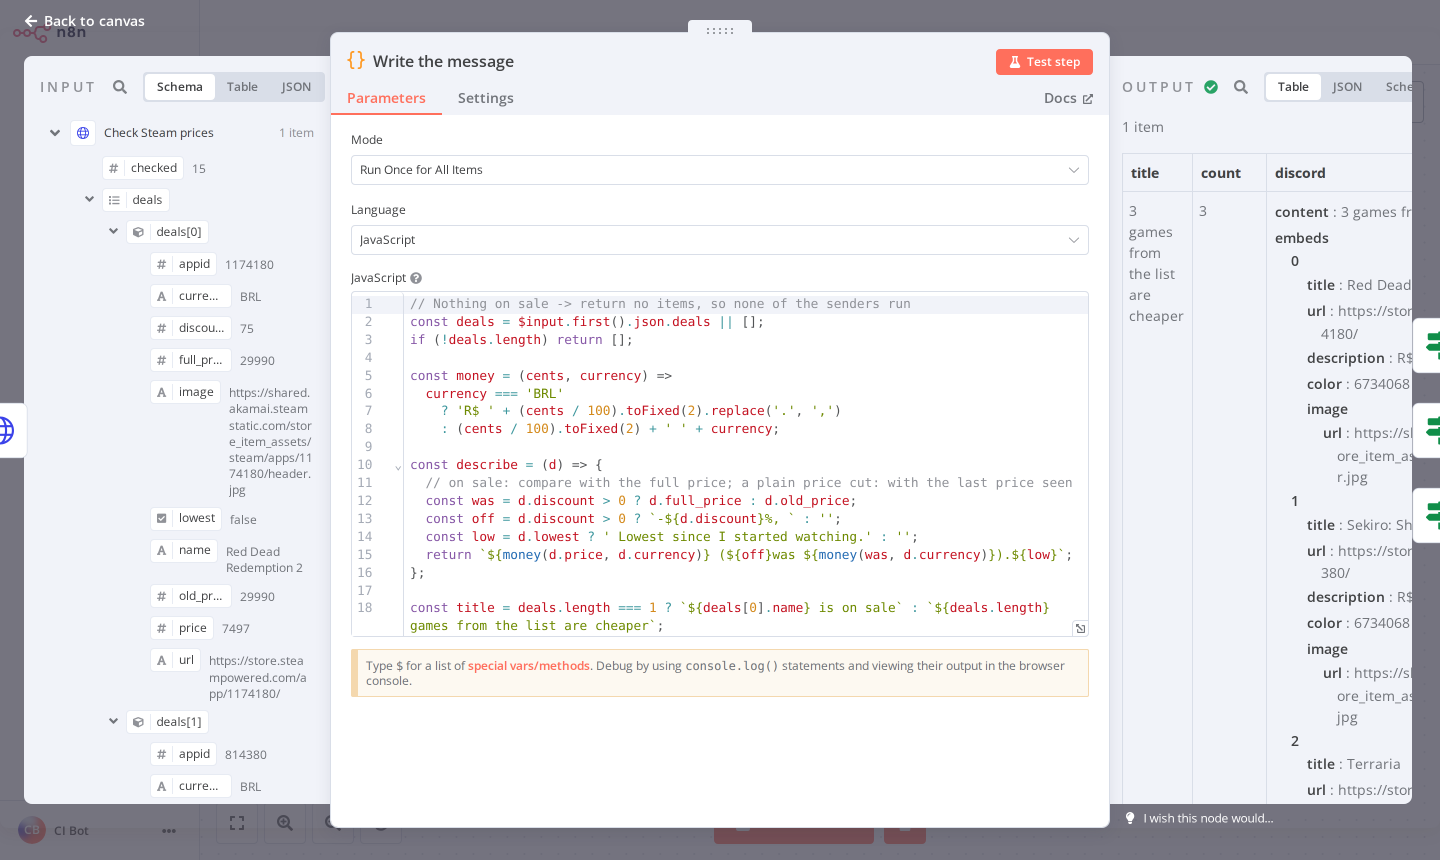
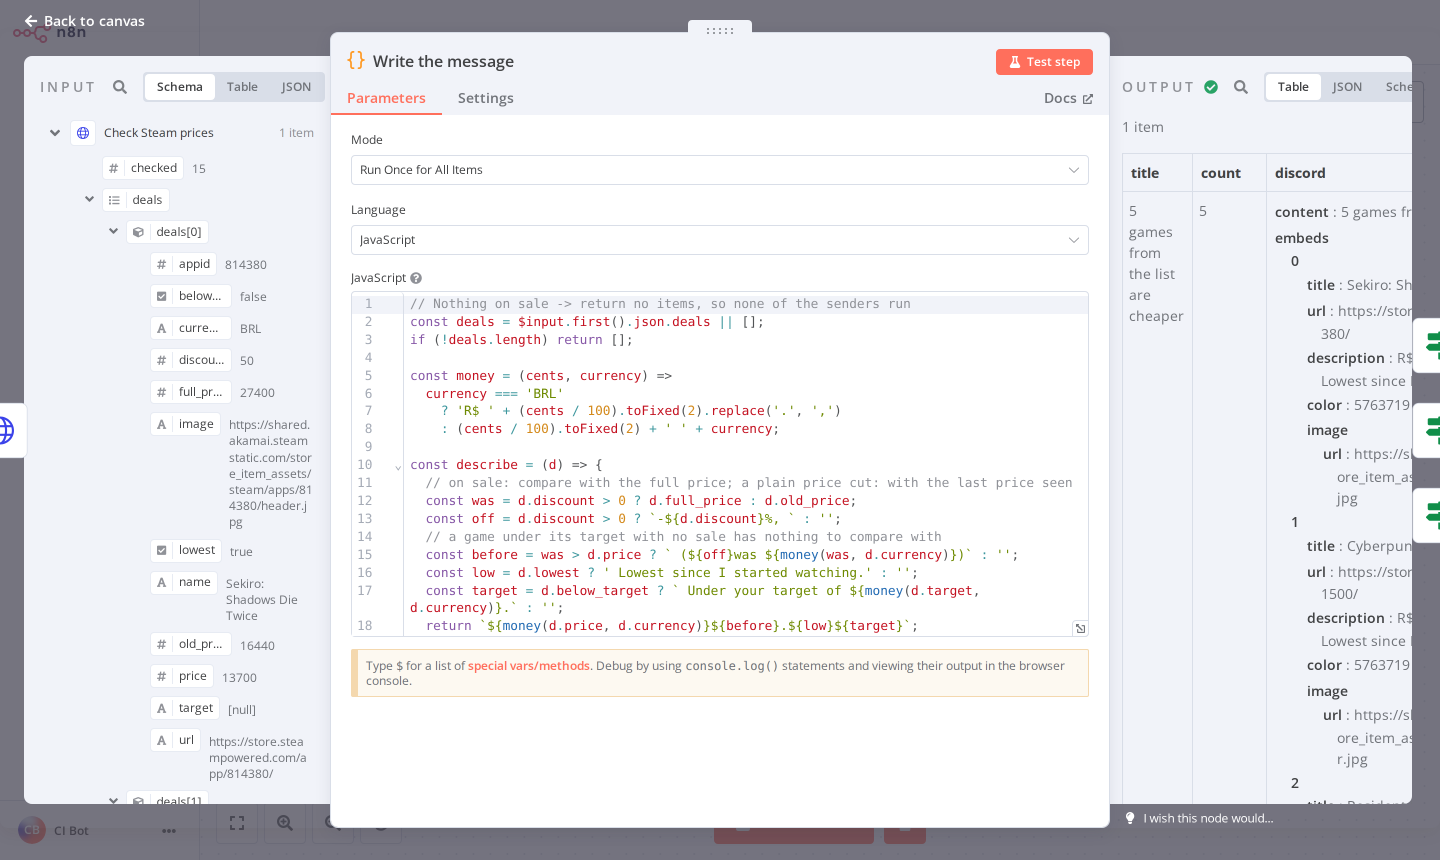
readme: the wishlist, the page and new screenshots

diff --git a/README.md b/README.md
@@ -31,13 +31,17 @@ flowchart LR
     msg --> wa["WhatsApp (CallMeBot)"]
 ```
 
-- The games are in [`watchlist.json`](watchlist.json) (Elden Ring, Hollow Knight: Silksong, Baldur's Gate 3, RDR2...). Any Steam game works, the id is the number in the store url. n8n can also send its own list: `{"appids": [1245620, 1030300]}`.
-- `POST /check` gets every price in one call to the store's public `appdetails` endpoint (no key needed) and returns the deals, biggest discount first.
+- The games are your Steam wishlist (set `STEAM_PROFILE` to your profile url, id or custom name; the wishlist has to be public) plus the ones in [`watchlist.json`](watchlist.json) (Elden Ring, Hollow Knight: Silksong, Baldur's Gate 3, RDR2...). Any Steam game works in the file, the id is the number in the store url. n8n can also send its own list: `{"appids": [1245620, 1030300]}`.
+- `POST /check` gets the prices from the store's public `appdetails` endpoint, 100 games per call, and the names and banners of new games from `IStoreBrowseService` (also no key needed). It returns the deals, biggest discount first. A private wishlist doesn't stop the check: the file is still checked and the answer says why the wishlist was skipped.
 - A game can have a target price in the list (`"target": 40.00`, in the store's currency). Under it, it's worth a message even without a sale, and the message says so.
 - A game already on sale (or already under its target) the first time it's seen is a deal. A sale that just goes on is not news again the next day, otherwise the same Terraria message would show up for two weeks.
 - "Lowest" means the lowest since the API started watching that game, not the lowest ever on Steam.
 - If the store doesn't answer, `/check` returns a 502 saying so, which is what shows up on the failed node in n8n.
 - `GET /games` lists what it's watching with the current and lowest price, `GET /history?appid=...` every price a game had.
+
+The API also has a page (http://localhost:8000) with every game it watches, the price now, the lowest it has seen and a line of the price history:
+
+![The page of the API: Red Dead Redemption 2 at R$ 74,97 (-75%), Sekiro and Terraria at -50%, and price history lines for the games that changed](docs/dashboard.png)
 
 The Code node turns the deals into three messages: Discord cards with the game's banner, a short push that opens the store page when tapped, and plain text for WhatsApp.
 
@@ -63,6 +67,8 @@ Where the deals go (each one is used only if it's filled in `.env`):
 | Phone push | `NTFY_TOPIC` | Install the [ntfy](https://ntfy.sh) app and subscribe to a topic name only you know. No account needed |
 | WhatsApp | `WHATSAPP_PHONE`, `WHATSAPP_APIKEY` | [CallMeBot](https://www.callmebot.com/blog/free-api-whatsapp-messages/): send it the activation message once and it answers with your key. Free, for personal use |
 
+To watch your wishlist, put your profile in `STEAM_PROFILE` (`https://steamcommunity.com/id/yourname`, the 17-digit id or just the name) and make the game details public in Steam's privacy settings.
+
 Waiting for a real sale to test it takes days, so this makes a few games look pricier "yesterday", and the next run reports them:
 
 ```bash
@@ -85,6 +91,6 @@ flask --app price_watch.api run --port 8000
 - Tests run offline: the Steam client is tested against real answers from the store saved in `tests/fixtures` (including the odd ones: a free game comes back with an empty list instead of an object), and the JavaScript from the n8n Code node is pulled out of the workflow json and run with Node, so a typo there fails CI instead of failing at 9am.
 - CI also runs the whole thing end to end (`ci/e2e.sh`): docker compose brings up the api, n8n and `ci/fakes.py`, a tiny server pretending to be the Steam store, Discord, ntfy and CallMeBot. It imports the workflow and runs it three times with `n8n execute`: the games already on sale have to reach all three channels, the same prices again must send nothing, and after the demo script fakes older prices the drops have to go out.
 - The screenshots above come from the same setup: `ci/shots` opens the editor with Playwright, clicks "Test workflow" and saves the pictures (the `screenshots` workflow in Actions, run by hand).
-- I started with FastAPI but Windows Smart App Control blocks the pydantic-core dll on my PC, so I went with Flask, which is plenty for four routes.
+- I started with FastAPI but Windows Smart App Control blocks the pydantic-core dll on my PC, so I went with Flask, which is plenty for five routes.
 - SQLite instead of Postgres because it's one table of games and one of history for one person. All the SQL is in `price_watch/store.py`, so swapping is easy.
 - The first version watched book prices on [books.toscrape.com](https://books.toscrape.com), a site made for scraping practice. It worked, but its prices never change, so it never had anything to say. Steam actually has sales.
